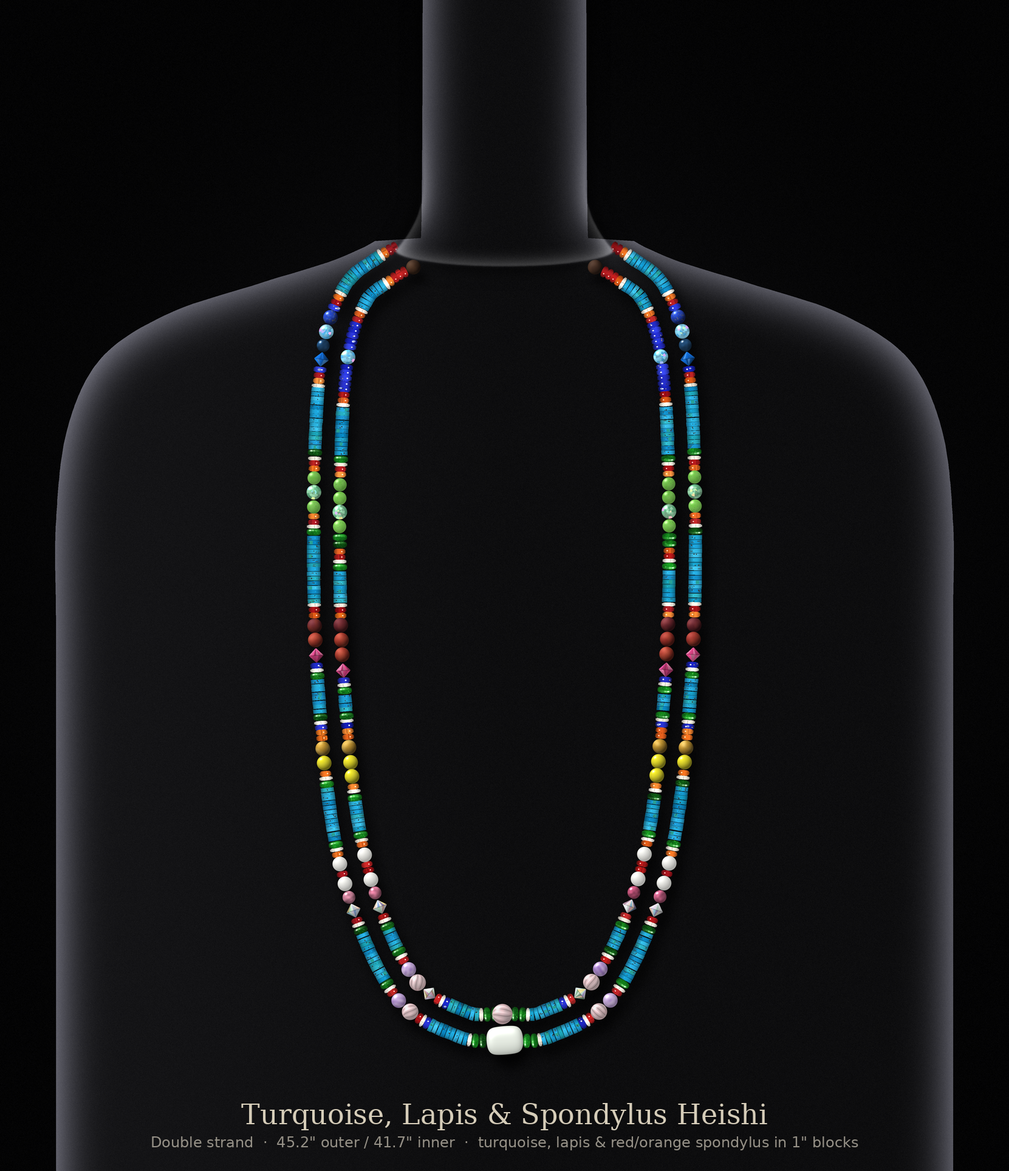
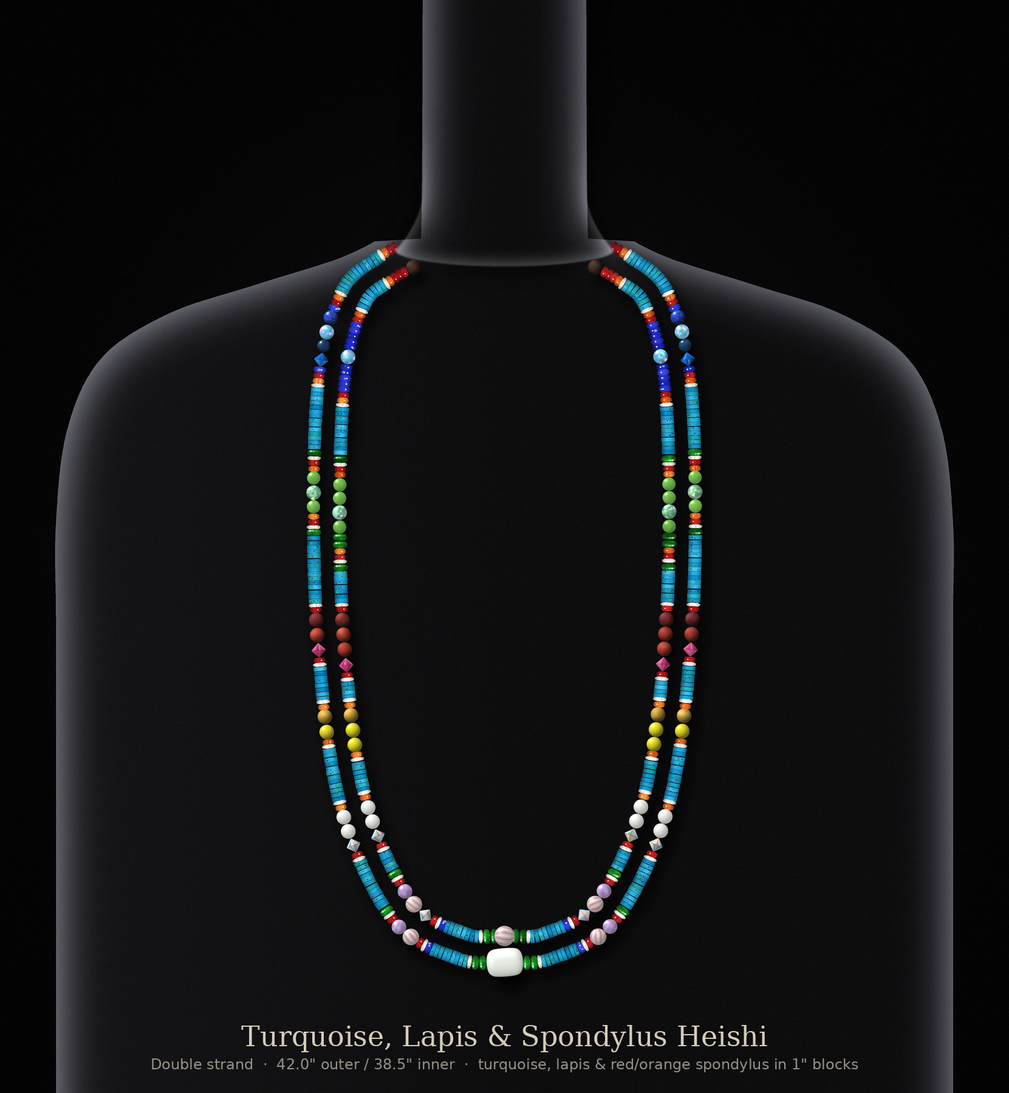
Version 5: back to 42" outer by trimming the mookaite, yellow and white sections
Claude-Session: https://claude.ai/code/session_014be1vF4Rdf8sv9Si75Gudv

diff --git a/necklace/render_necklace.py b/necklace/render_necklace.py
@@ -23,7 +23,9 @@ V5_EXT6 = -3.0 - 1.0 if V5 else 0.0      # (and -1 mm: lapis replaces the 4 mm d
 V5_EXT7 = 2.0 if V5 else 0.0             # v5: white conch beside the centre diopside (+2 mm per side)
 V5_EXT8 = 3 * 2.0 if V5 else 0.0         # v5: white conch outside the oranges that touch turquoise, top red + blue bands (+6 mm per side)
 V5_EXT9 = 3 * 2.0 if V5 else 0.0         # v5: white conch between red and turquoise, green and mookaite bands (+6 mm per side)
-C_OUT, GAP, BEAD_D = 42 * INCH + 2 * (V5_EXT + V5_EXT2 + V5_EXT3 + V5_EXT4 + V5_EXT5 + V5_EXT6 + V5_EXT7 + V5_EXT8 + V5_EXT9), (11.2 if EXTRAS else (14.0 if V2 else 10.0)), 7.0   # v2: room for 18 mm naga conch
+# v5: back to a 42" outer strand - the mookaite, yellow and white sections are trimmed to fit (turquoise unchanged)
+V5_EXT10 = -(V5_EXT + V5_EXT2 + V5_EXT3 + V5_EXT4 + V5_EXT5 + V5_EXT6 + V5_EXT7 + V5_EXT8 + V5_EXT9)
+C_OUT, GAP, BEAD_D = 42 * INCH + 2 * (V5_EXT + V5_EXT2 + V5_EXT3 + V5_EXT4 + V5_EXT5 + V5_EXT6 + V5_EXT7 + V5_EXT8 + V5_EXT9 + V5_EXT10), (11.2 if EXTRAS else (14.0 if V2 else 10.0)), 7.0   # v2: room for 18 mm naga conch
 C_IN = C_OUT - 2 * math.pi * GAP    # inner strand: 8 mm smaller radius -> ~38"
 NSEG, BPS = 42, 16                  # 1 inch blocks, ~16 heishi (1.6 mm) per block
 
@@ -1225,13 +1227,13 @@ if V4:
             gaps = [f / 2] + [f] * len(STN)
             if V5:
                 # align band centres by height: use common fractions computed from the widest of each band pair
-                Hin = (s_in[-1] + HIDDEN_IN) / 2 - SZ[CENTRE[1]] / 2 - V5_EXT - V5_EXT2 - V5_EXT3 - V5_EXT4 - V5_EXT5 - V5_EXT6 - V5_EXT7 - V5_EXT8 - V5_EXT9   # layout at the old length
+                Hin = (s_in[-1] + HIDDEN_IN) / 2 - SZ[CENTRE[1]] / 2 - V5_EXT - V5_EXT2 - V5_EXT3 - V5_EXT4 - V5_EXT5 - V5_EXT6 - V5_EXT7 - V5_EXT8 - V5_EXT9 - V5_EXT10   # layout at the old length
                 Wmax = [max(sum(SZ[k] for k in b[0]), sum(SZ[k] for k in b[1])) for b in BANDS]
                 gapc = (Hin - sum(Wmax)) / (len(BANDS) + 0.5)
                 cen, acc = [], gapc / 2
                 for w in Wmax:
                     cen.append((acc + w / 2) / Hin); acc += w + gapc
-                Hs = H2 - cz - V5_EXT - V5_EXT2 - V5_EXT3 - V5_EXT4 - V5_EXT5 - V5_EXT6 - V5_EXT7 - V5_EXT8 - V5_EXT9                # layout at the old length; the extension goes in below the blue band
+                Hs = H2 - cz - V5_EXT - V5_EXT2 - V5_EXT3 - V5_EXT4 - V5_EXT5 - V5_EXT6 - V5_EXT7 - V5_EXT8 - V5_EXT9 - V5_EXT10                # layout at the old length; the extension goes in below the blue band
                 # turquoise gaps come from the unframed layout; the extra frame width is taken from the top section
                 Wmax0 = [max(sum(SZ[k] for k in b[0]), sum(SZ[k] for k in b[1])) for b in BANDS_PREV]
                 gapc0 = (Hin - sum(Wmax0)) / (len(BANDS_PREV) + 0.5)
@@ -1484,6 +1486,16 @@ if V4:
                 _g = list(STN[4])                              # green section: the diopside next to the orange moves out to the turquoise
                 assert _g[:4] == ["conch", "red", "orange", "diop"] and _g[-4:] == ["diop", "orange", "red", "conch"], _g
                 STN[4] = ["diop", "conch", "red", "orange"] + _g[4:-4] + ["orange", "red", "conch", "diop"]
+                # trim for a 42" necklace: mookaite, yellow and white sections keep 3 round beads on the inner strand
+                # and 2 on the outer (plus their bicone), with 2 border rondelles at each end (white conch against the turquoise)
+                _old = sum(SZ[k] for i in (5, 6, 7) for k in STN[i])
+                _rd = (lambda inner, outer: inner if st == 1 else outer)
+                STN[5] = ["conch", "red"] + _rd(["mookred", "mookrd", "mookrd"], ["mookred", "mookrd"]) + ["rbic", "red", "conch"]
+                STN[6] = ["conch", "orange"] + _rd(["mookyel", "yellow", "yellow"], ["mookyel", "yellow"]) + ["orange", "conch"]
+                STN[7] = ["conch", "orange", "opal8", "opal8", "abbic", "red", "conch"]
+                _cut = _old - sum(SZ[k] for i in (5, 6, 7) for k in STN[i])
+                gaps[9] += _cut + V5_EXT10                       # beads below move up; centre run keeps (almost) its length
+                print(f"v5 strand {st} trim: cut {_cut:.1f} mm per side, centre run change {_cut + V5_EXT10:+.1f} mm")
                 print(f"v5 strand {st} swapped 7/8 gaps", [round(float(x), 1) for x in gaps])
             g = 0.0
             lap = LAP_BUDGET[st]
